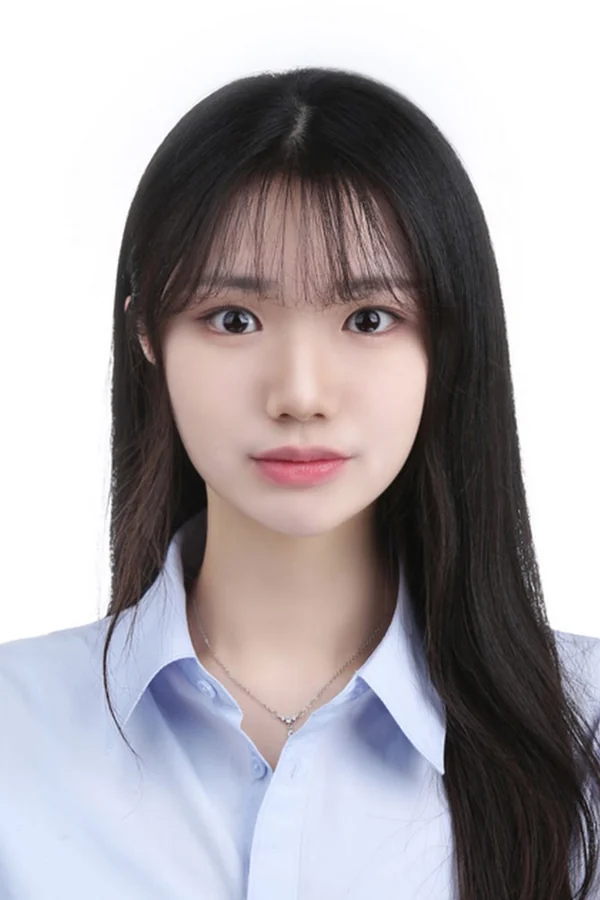
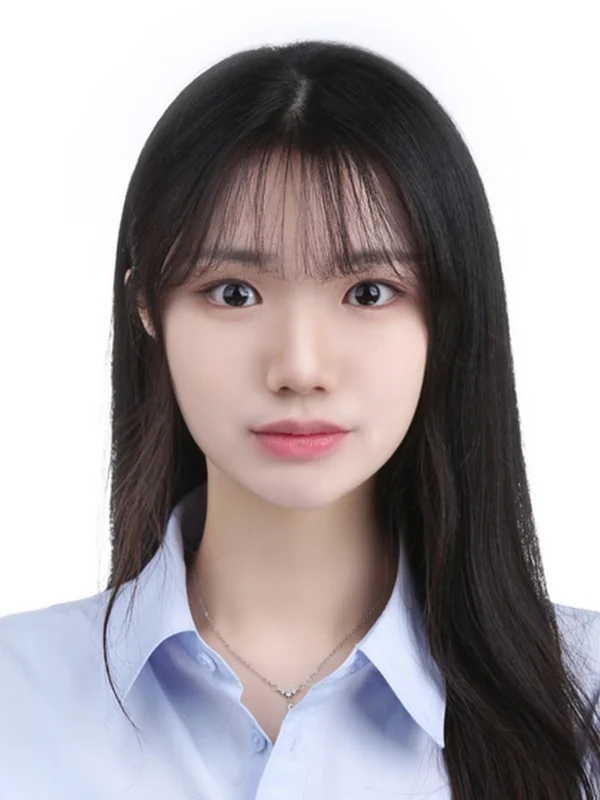
Tighten headroom on the portraits
Detect the top of each subject's hair and crop so every photo keeps
the same 5% clearance above it, at 3:4 instead of 2:3.

- assets/people/: recropped to 600x800
- .portrait and .tcard .portrait: aspect-ratio 3/4
- object-position 50% 12% keeps the PI's head in frame, since that
  photo is still served 2:3 from Google

Claude-Session: https://claude.ai/code/session_01PprrcZ4WVFY6RZsqJ9TFax

diff --git a/people.html b/people.html
@@ -190,7 +190,7 @@
         <div class="portrait">
           <picture>
             <source srcset="assets/people/intern-1.webp" type="image/webp">
-            <img src="assets/people/intern-1.jpg" width="600" height="900" loading="lazy" alt="Hoemin Ryu">
+            <img src="assets/people/intern-1.jpg" width="600" height="800" loading="lazy" alt="Hoemin Ryu">
           </picture>
         </div>
         <h4>Hoemin Ryu</h4>
@@ -201,7 +201,7 @@
         <div class="portrait">
           <picture>
             <source srcset="assets/people/intern-2.webp" type="image/webp">
-            <img src="assets/people/intern-2.jpg" width="600" height="900" loading="lazy" alt="Jiyoon Kim">
+            <img src="assets/people/intern-2.jpg" width="600" height="800" loading="lazy" alt="Jiyoon Kim">
           </picture>
         </div>
         <h4>Jiyoon Kim</h4>
@@ -212,7 +212,7 @@
         <div class="portrait">
           <picture>
             <source srcset="assets/people/intern-3.webp" type="image/webp">
-            <img src="assets/people/intern-3.jpg" width="600" height="900" loading="lazy" alt="Kyung Jin Kim">
+            <img src="assets/people/intern-3.jpg" width="600" height="800" loading="lazy" alt="Kyung Jin Kim">
           </picture>
         </div>
         <h4>Kyung Jin Kim</h4>
@@ -223,7 +223,7 @@
         <div class="portrait">
           <picture>
             <source srcset="assets/people/intern-4.webp" type="image/webp">
-            <img src="assets/people/intern-4.jpg" width="600" height="900" loading="lazy" alt="Se Eun Kim">
+            <img src="assets/people/intern-4.jpg" width="600" height="800" loading="lazy" alt="Se Eun Kim">
           </picture>
         </div>
         <h4>Se Eun Kim</h4>

diff --git a/abms-styles.css b/abms-styles.css
@@ -254,13 +254,13 @@
     border-bottom:1px solid var(--line);
   }
   .portrait{
-    width:100%;aspect-ratio:2/3;border-radius:12px;overflow:hidden;
+    width:100%;aspect-ratio:3/4;border-radius:12px;overflow:hidden;
     background:linear-gradient(150deg,#1E6288,#2E86B0);
     border:1px solid var(--line);
     display:flex;align-items:flex-end;justify-content:center;
     position:relative;
   }
-  .portrait img{width:100%;height:100%;object-fit:cover;object-position:50% 18%;display:block;}
+  .portrait img{width:100%;height:100%;object-fit:cover;object-position:50% 12%;display:block;}
   .portrait .ph{
     opacity:.5;margin-bottom:0;
   }
@@ -287,7 +287,7 @@
     display:grid;grid-template-columns:repeat(4,1fr);gap:22px;
   }
   .tcard{}
-  .tcard .portrait{aspect-ratio:2/3;border-radius:10px;margin-bottom:16px;}
+  .tcard .portrait{aspect-ratio:3/4;border-radius:10px;margin-bottom:16px;}
   .tcard h4{font-size:16.5px;font-weight:800;margin-bottom:5px;}
   .tcard .pos{font-size:13.5px;color:var(--blue);font-weight:700;margin-bottom:7px;}
   .tcard .topic{font-size:13.5px;line-height:1.6;color:var(--gray);}
